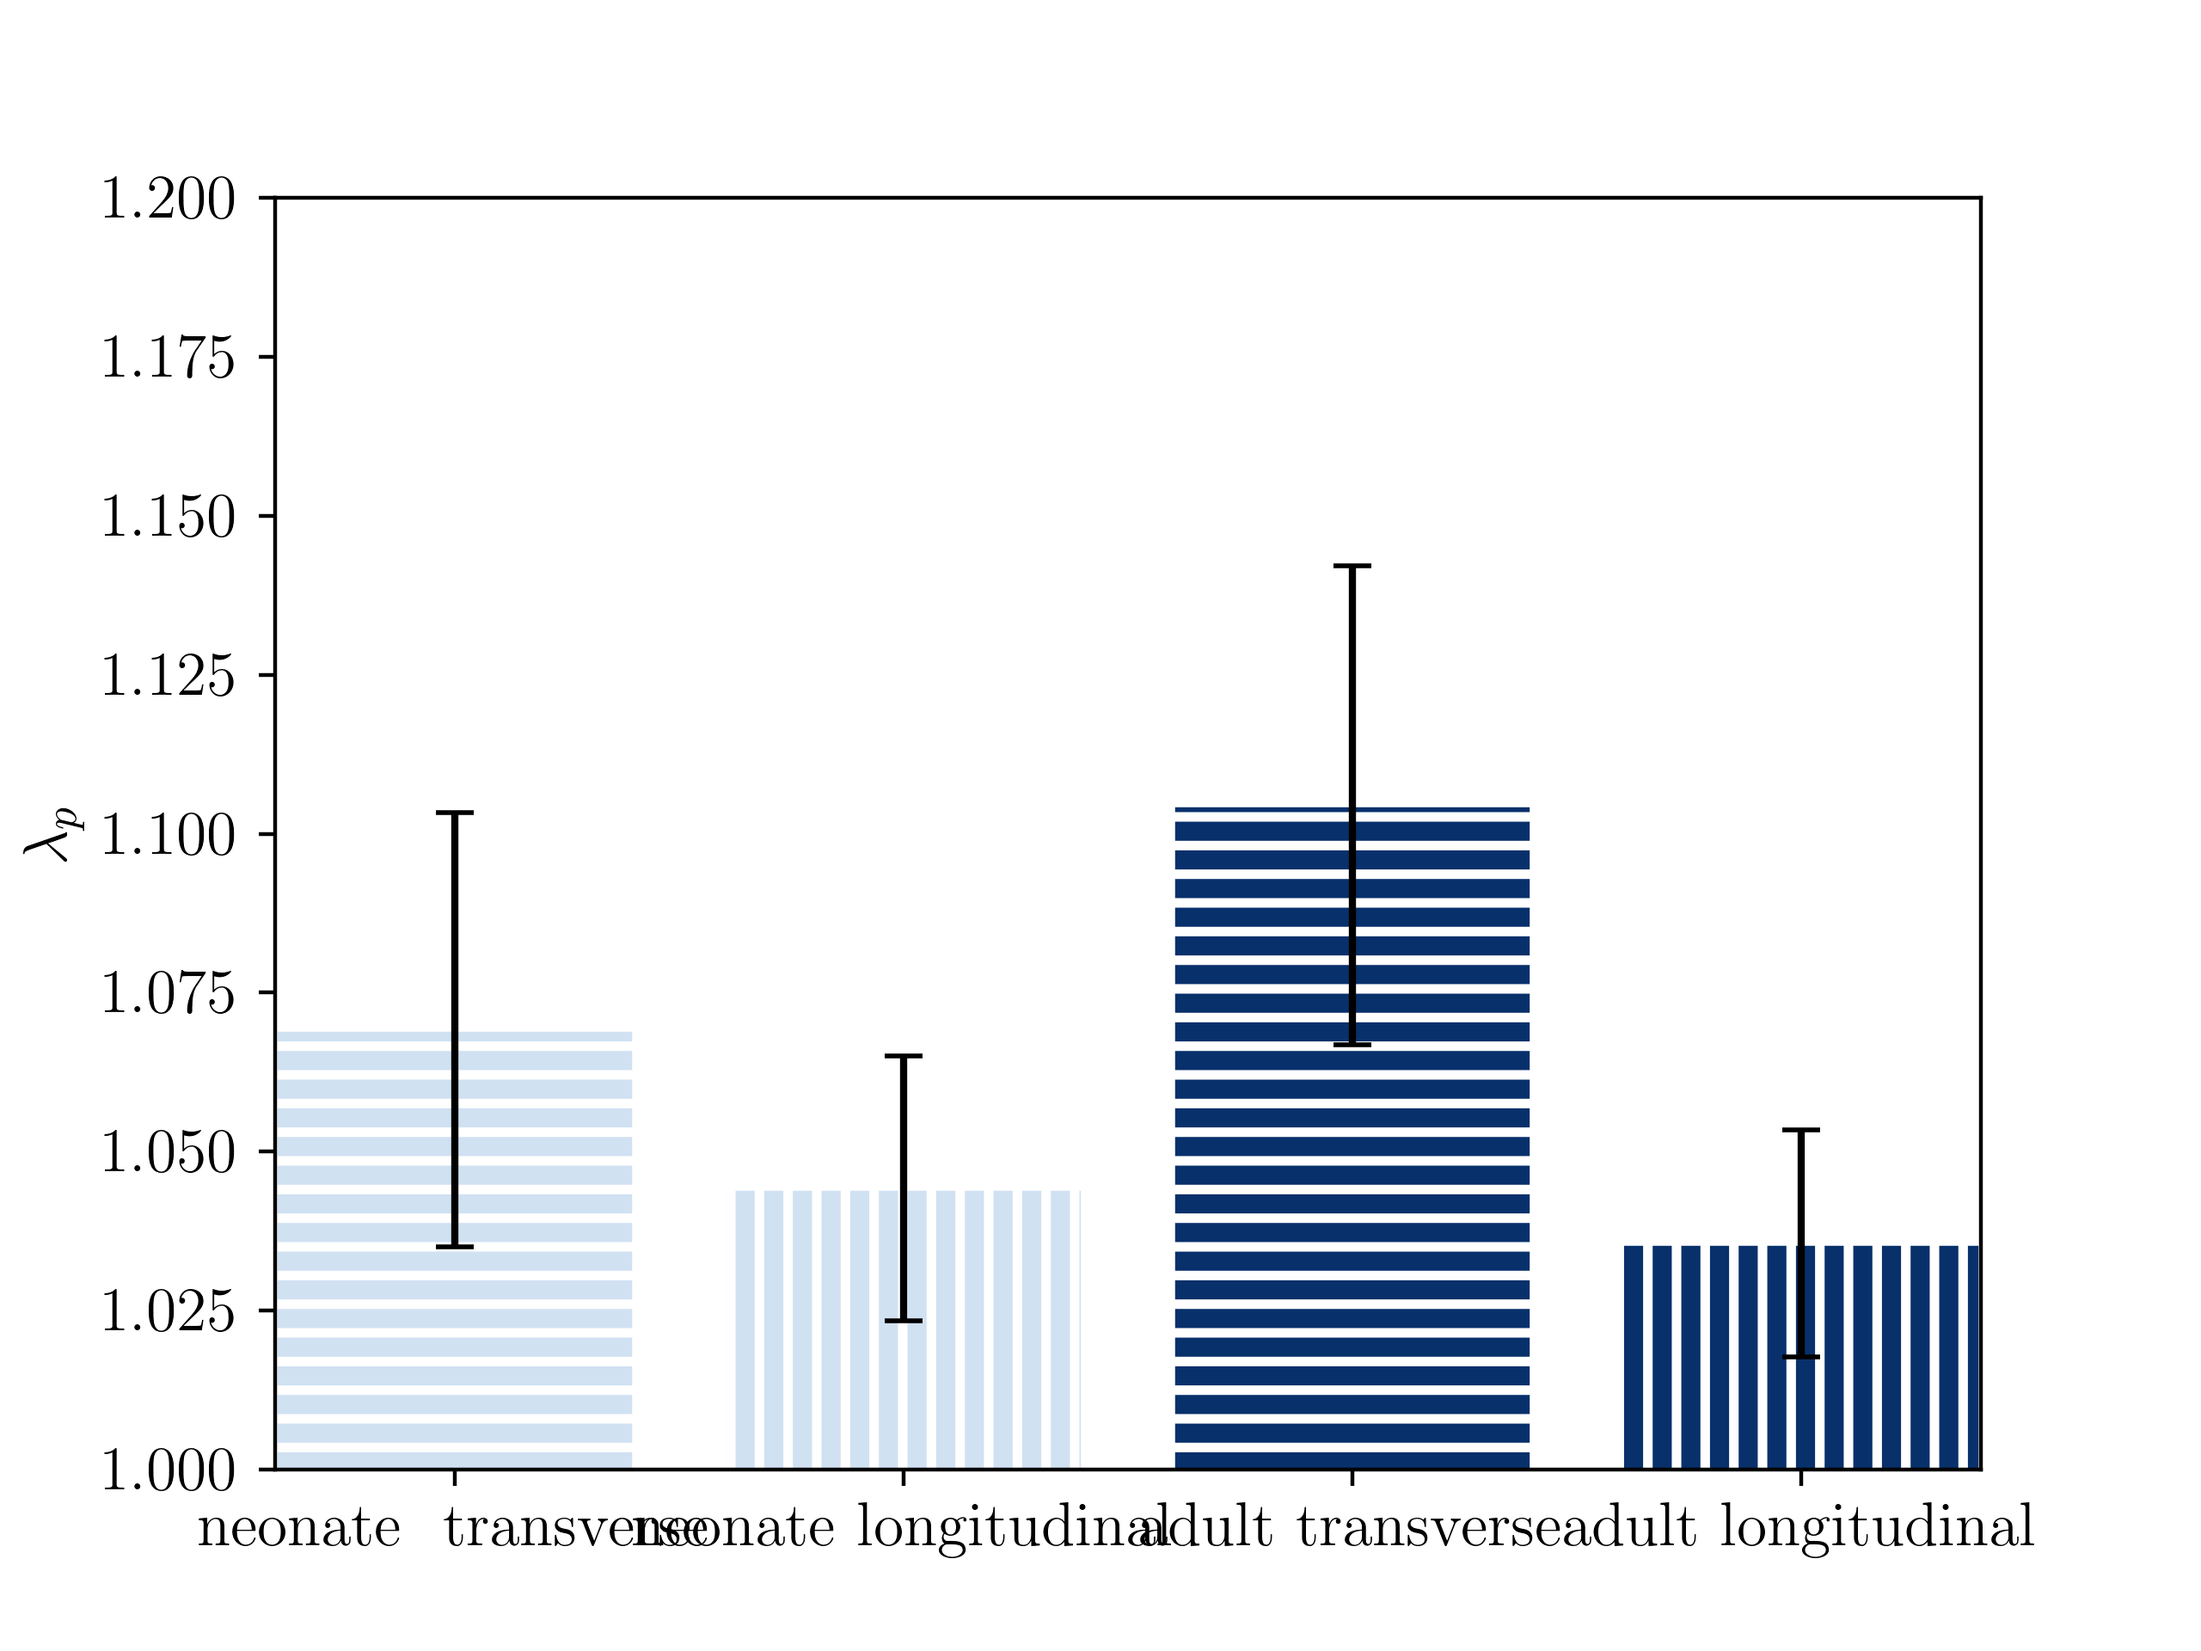
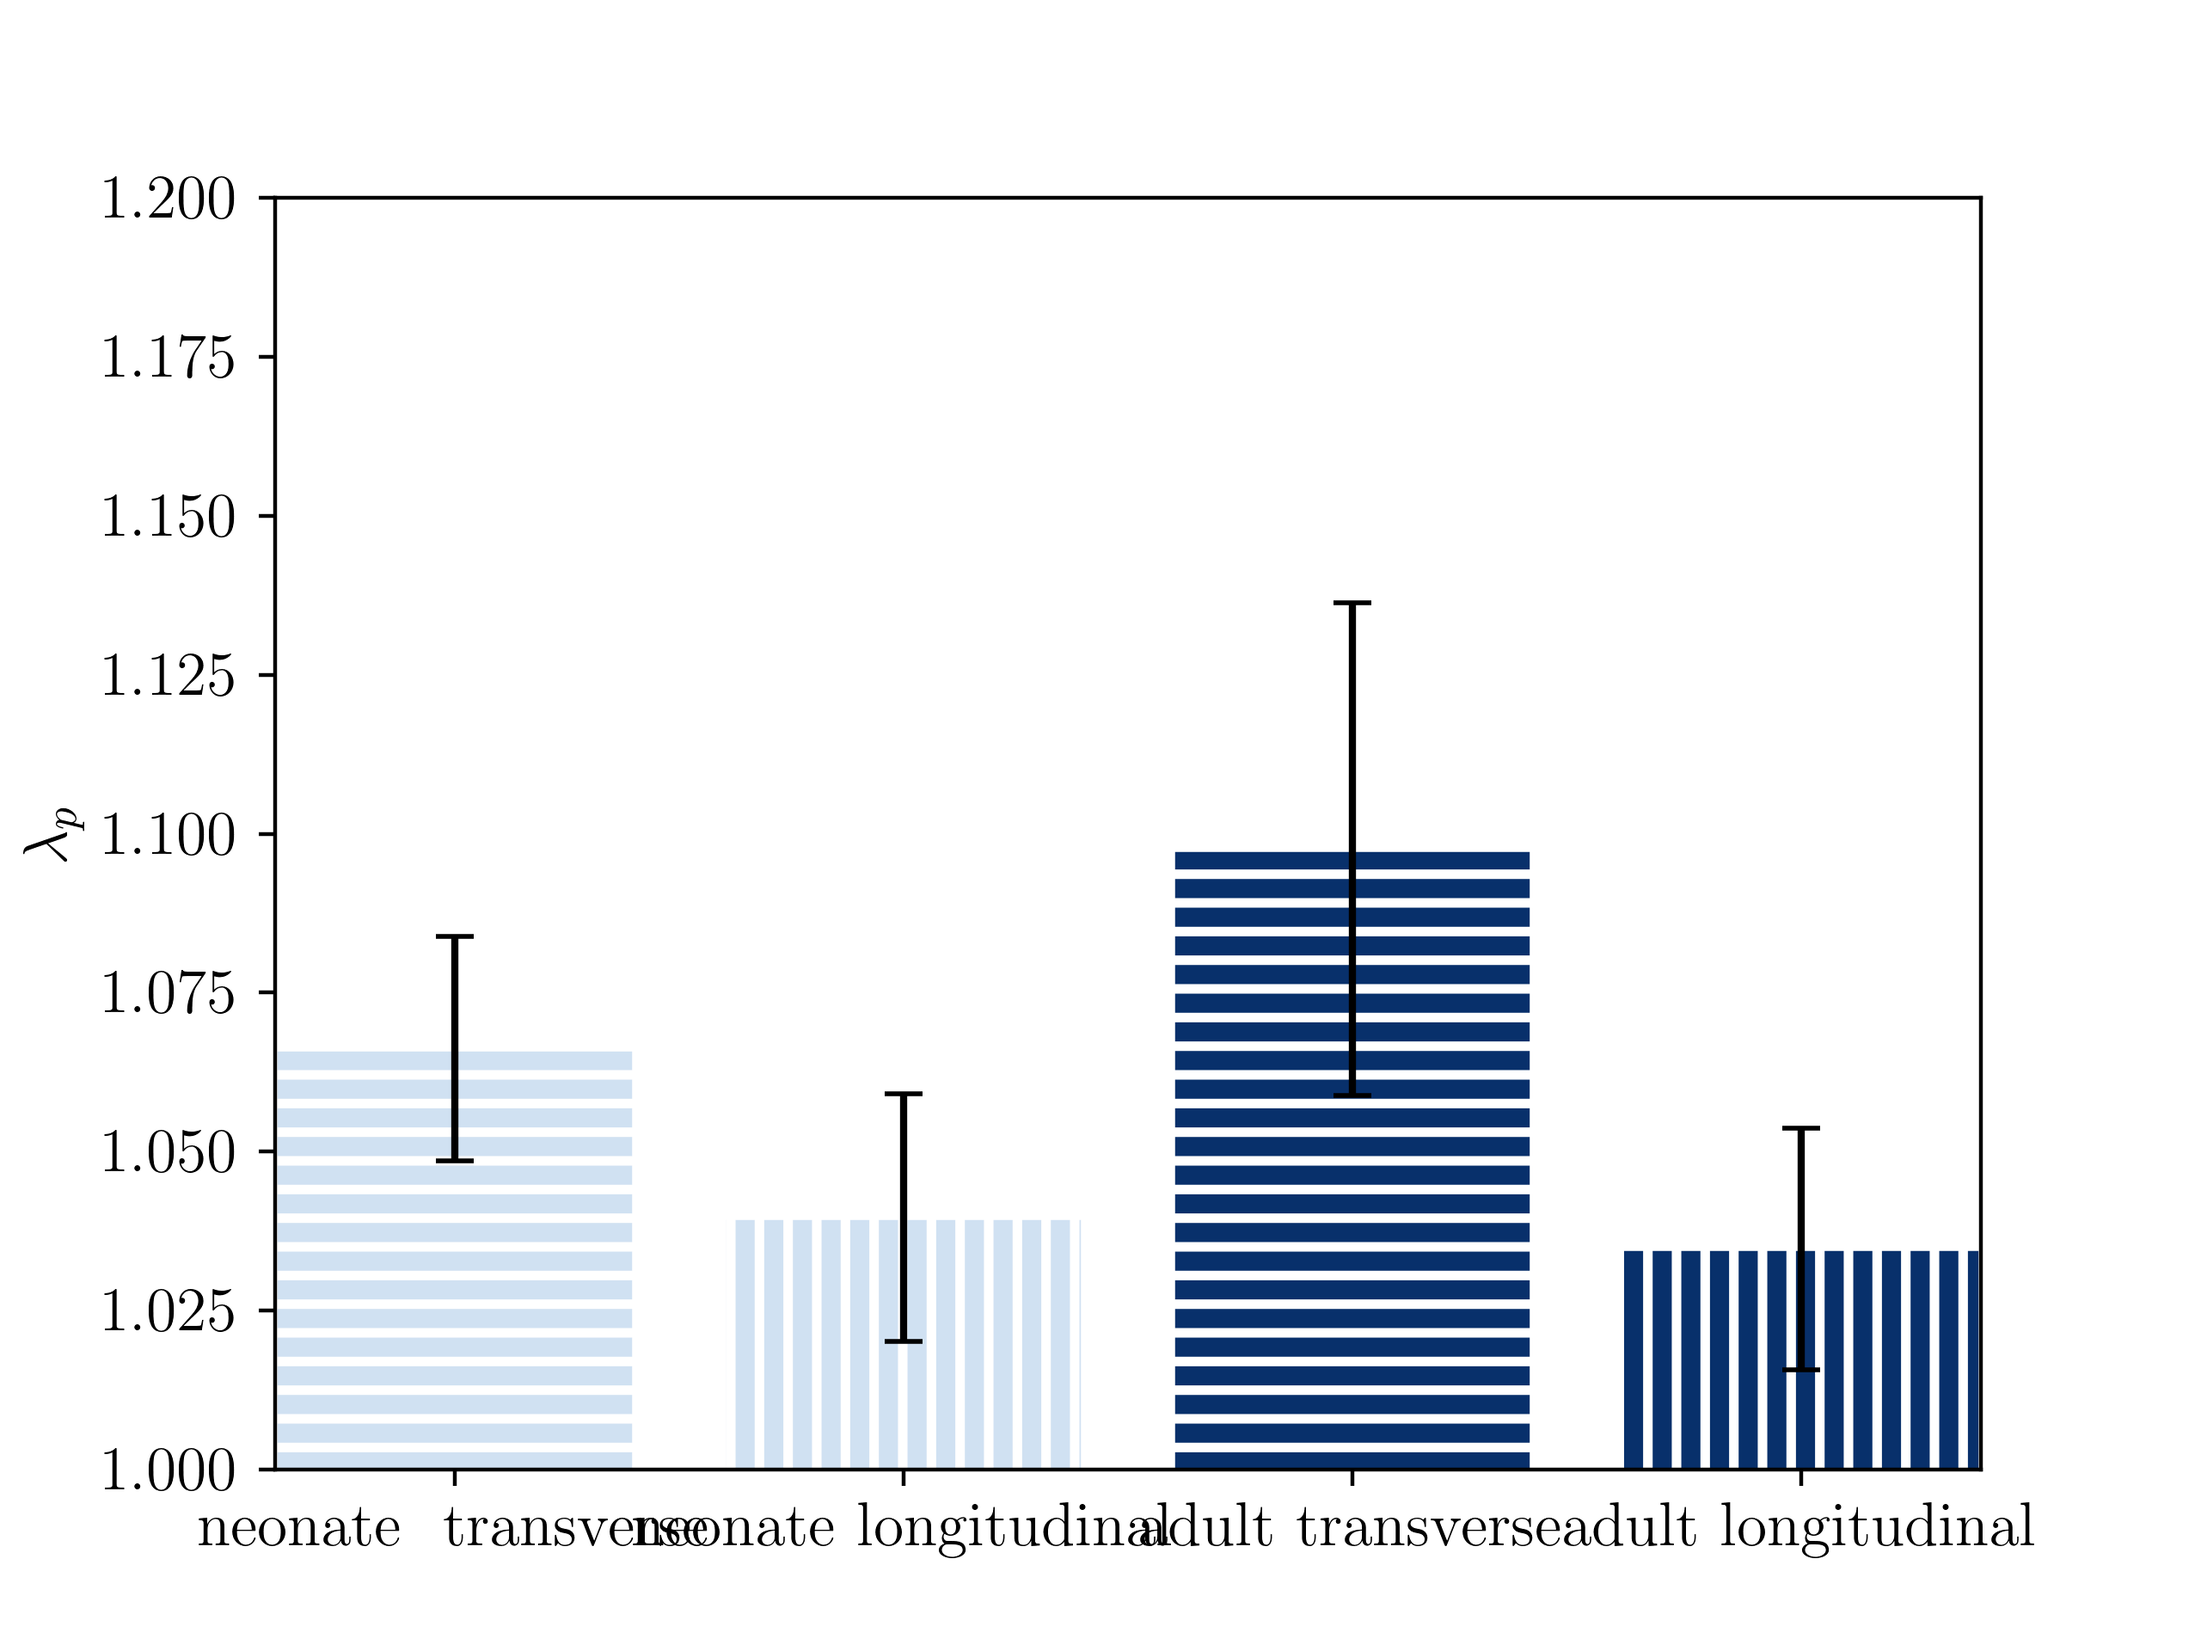
replaced hard coded numbers with calculated values

diff --git a/analysis/analysis_neonatal_adult.py b/analysis/analysis_neonatal_adult.py
@@ -52,10 +52,10 @@ def estimate_individual_stretches(path, csv):
         if df_exp.age_group[i] == age_group and df_exp.cut_orientation[i] == cut_orientation:
                 # extract experimental data for relevant group
                 group_name.append(df_exp.age_group[i][0] + df_exp.cut_orientation[i][0])
-                wbar_exp.append(df_exp.wbar_5min[i])
+                wbar_exp.append(df_exp.wbar[i])
                 
                 # estimate corresponding stretch
-                stretch = analysis_functions.interpolateStretch(df_sim.lambda_p, df_sim.wbar, df_exp.wbar_5min[i])
+                stretch = analysis_functions.interpolateStretch(df_sim.lambda_p, df_sim.wbar, df_exp.wbar[i])
                 
                 # append stretch and strain values
                 lambda_est.append(stretch)
@@ -126,27 +126,30 @@ def estimate_mean_stretch(wbar_exp, path, csv, title):
 def write_estimated_stretches(groups):
     
     # aggregate results for each group
-    experiments = []
-    wbar_avgs = []
-    wbar_stds = []
-    lambda_avgs = []
-    lambda_stds = []
+    # experiments = []
+    # wbar_avgs = []
+    # wbar_stds = []
+    # lambda_avgs = []
+    # lambda_stds = []
     
-    for group in groups:
+    [group_names, wbar_sets, lambda_sets, strain_sets] = exp_and_est_data(path, csvs)
+    [wbar_mean, wbar_stdv, lambda_mean, lambda_stdv] = exp_and_est_means(csvs, wbar_sets, lambda_sets)
 
-        [lambda_avg, lambda_std] = estimate_mean_stretch(group.wbar_exp, group.path, group.csv, group.title)
+    for i in range(len(groups)):        
+        [lambda_avg, lambda_std] = estimate_mean_stretch([wbar_mean[i], wbar_stdv[i]], group.path, group.csv, group.title)
+
         print('Simulation:', group.title)
         print('Estimated stretch:', lambda_avg,'+/-',lambda_std)
-        experiments.append(group.title)
-        wbar_avgs.append(group.wbar_exp[0])
-        wbar_stds.append(group.wbar_exp[1])
-        lambda_avgs.append(lambda_avg)
-        lambda_stds.append(lambda_std)
+        # experiments.append(group.title)
+        # wbar_avgs.append(group.wbar_exp[0])
+        # wbar_stds.append(group.wbar_exp[1])
+        # lambda_avgs.append(lambda_avg)
+        # lambda_stds.append(lambda_std)
     
     # write experimental stretch information to file
     outFile = open('results-estimated_stretches.csv', 'w+')
     header = ['Experiment','w/l (exp, ave)','w/l (exp, std)','stretch (ave)','stretch (std)']
-    output = zip(experiments, wbar_avgs, wbar_stds, lambda_avgs, lambda_stds)
+    output = zip(group_names, wbar_mean, wbar_stdv, lambda_mean, lambda_stdv)
     writer = csv.writer(outFile)
     writer.writerow(header)
     writer.writerows(output)
@@ -208,9 +211,6 @@ def bar_plot(path, csvs):
     colors = [neonate, neonate, adult, adult]
     hatches = ['--', '||', '--', '||']
 
-    print(group_names)
-    print(wbar_mean)
-    print(wbar_stdv)
     plt.figure()
     bars = plt.bar(group_names, wbar_mean, yerr=wbar_stdv, capsize=4, color=colors)
     for i in range(len(group_names)):
@@ -227,35 +227,34 @@ def bar_plot(path, csvs):
     plt.savefig("figure-bar_lambda", dpi=400)
 
 class ExperimentalGroup(object):
-    def __init__(self, wbar_exp, path, csv, title):
-        self.wbar_exp = wbar_exp
+    def __init__(self, path, csv, title):
         self.path = path
         self.csv = csv
         self.title = title
 
 neonateTran = ExperimentalGroup(
-        [0.167, 0.039],
+        
         '../simulations/results/',
         'neonate_tran_sim.csv',
         'neonate_transverse'
     )
 
 neonateLong = ExperimentalGroup(
-        [0.095, 0.043],
+        
         '../simulations/results/',
         'neonate_long_sim.csv',
         'neonate_longitudinal'
     )
 
 adultTran = ExperimentalGroup(
-        [0.230, 0.073],
+        
         '../simulations/results/',
         'adult_tran_sim.csv',
         'adult_transverse'
     )
 
 adultLong = ExperimentalGroup(
-        [0.092, 0.046],
+        
         '../simulations/results/',
         'adult_long_sim.csv',
         'adult_longitudinal'
